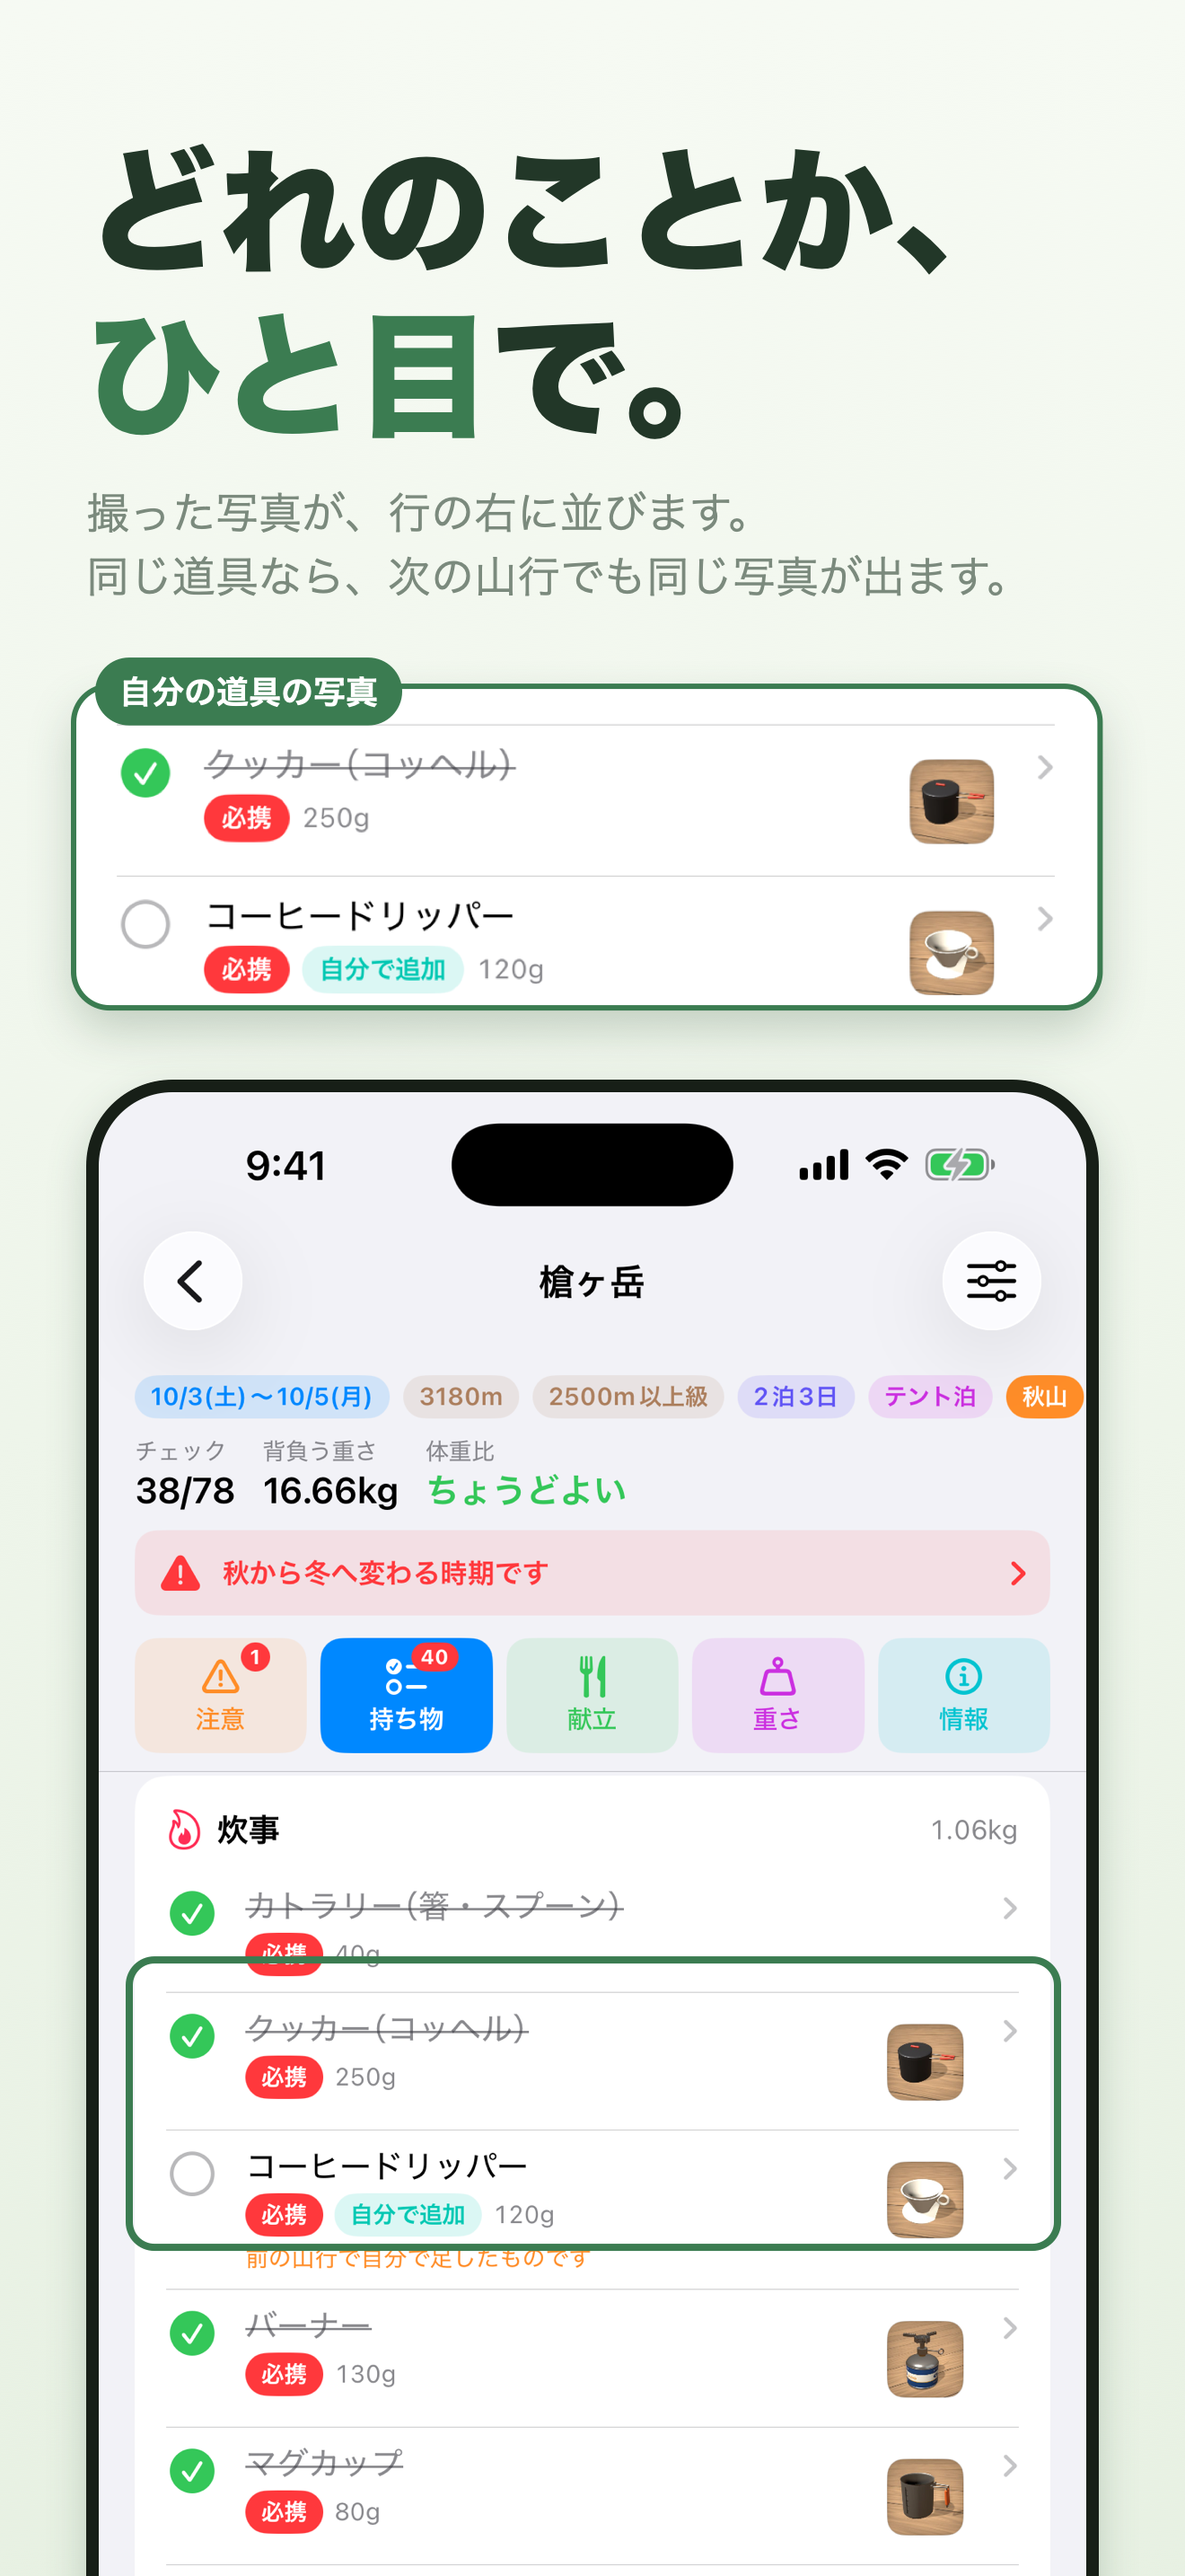
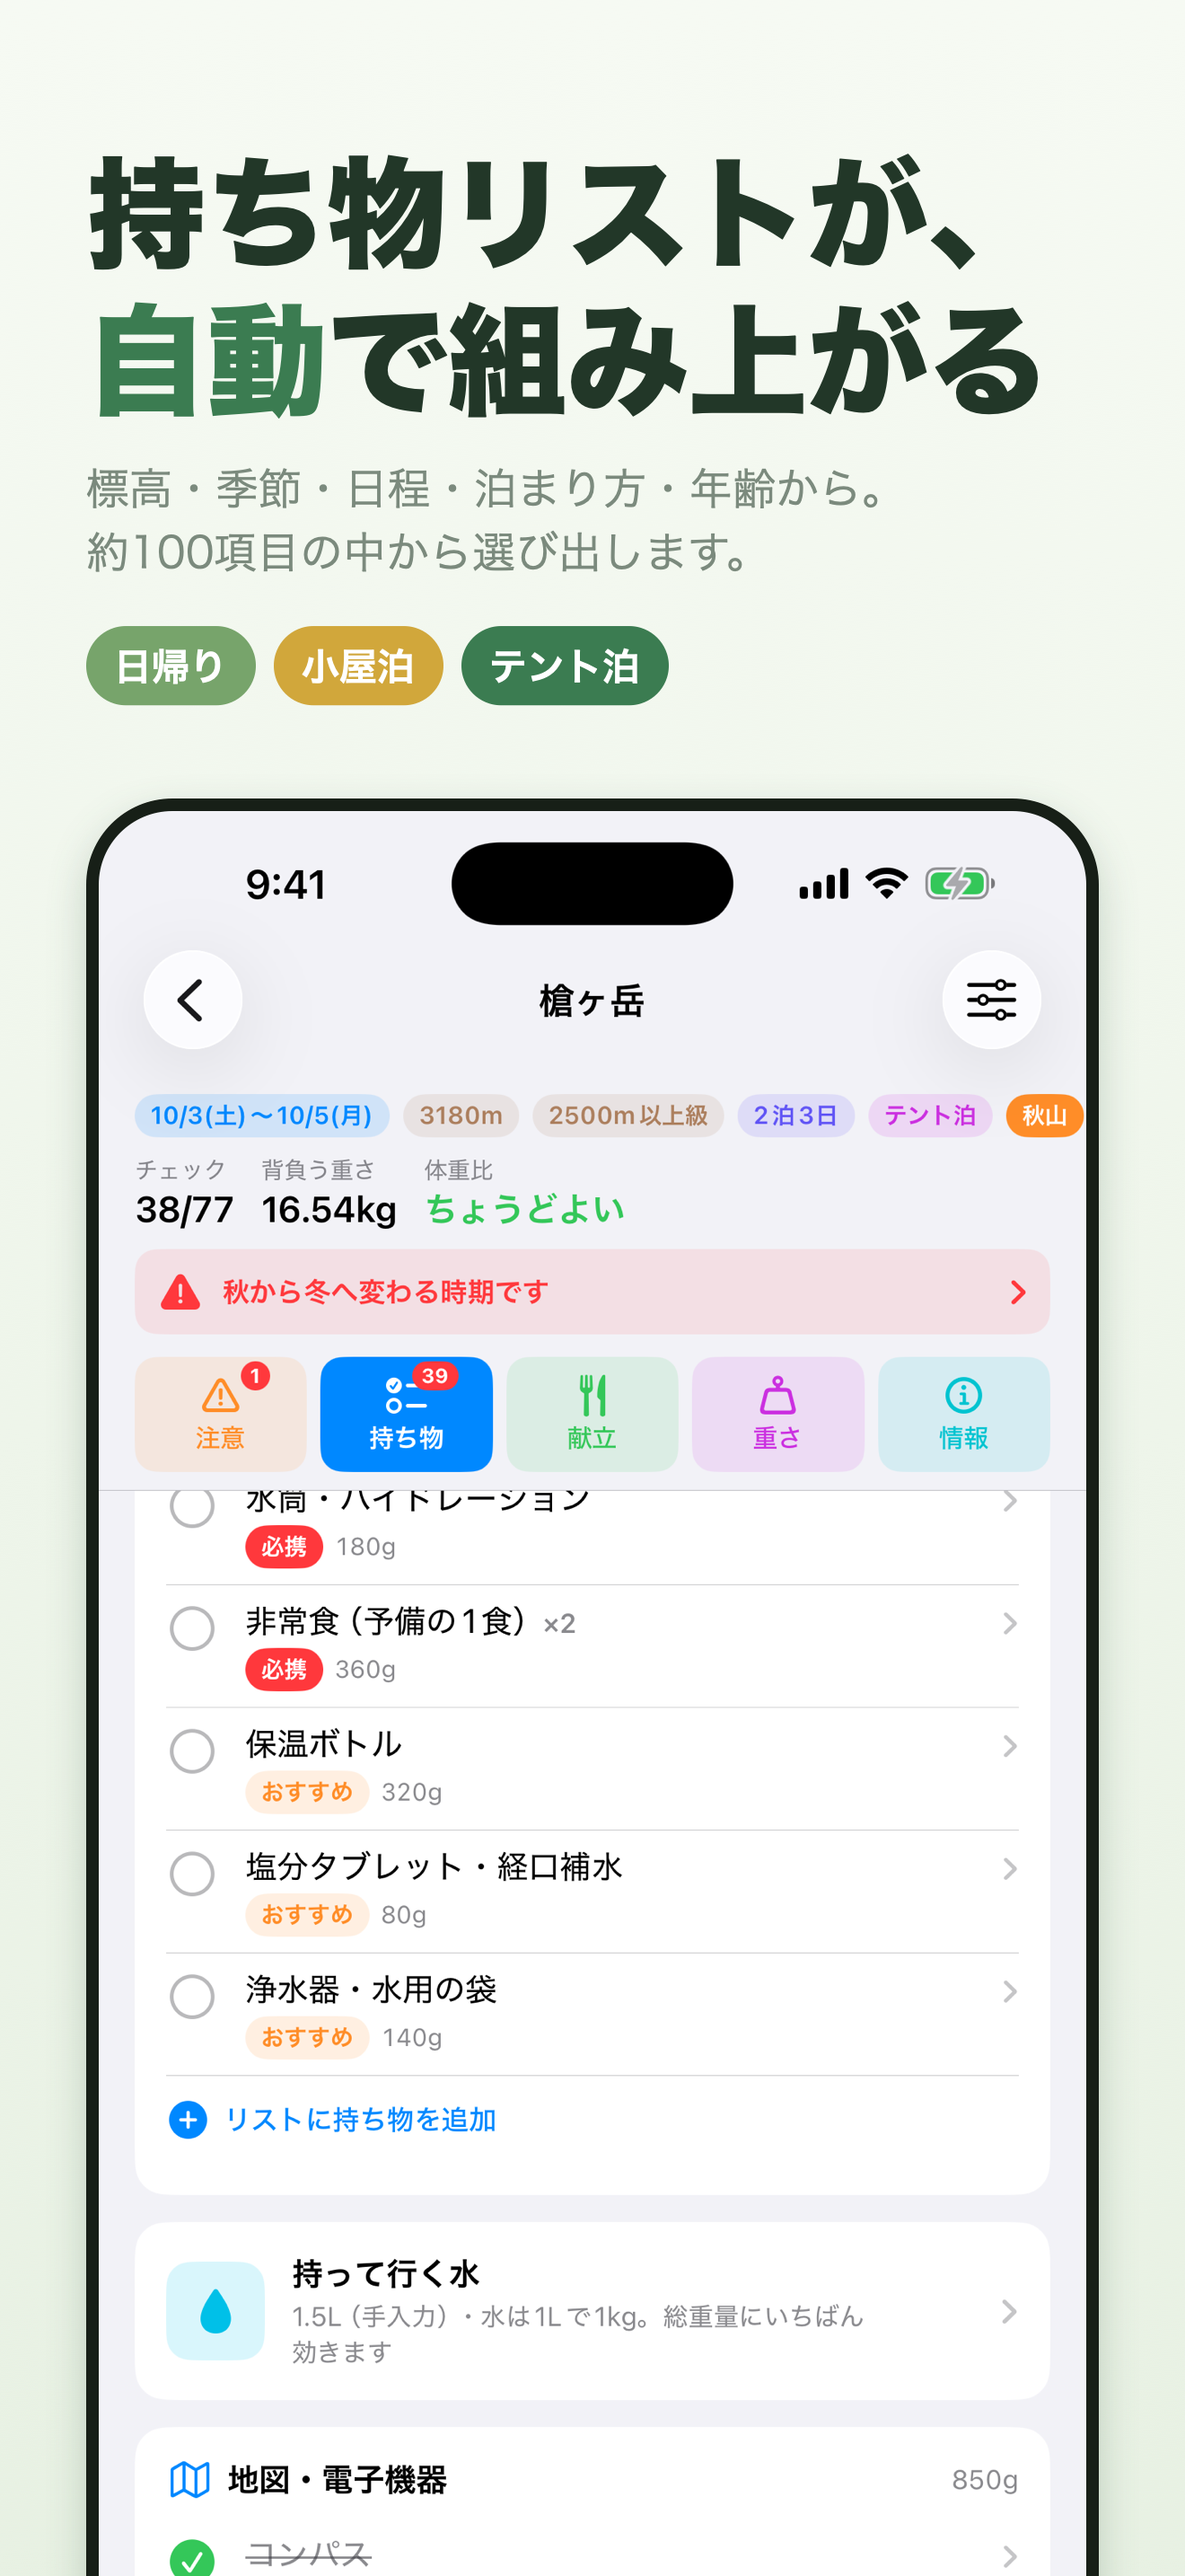
山じたく 1.12: 登山計画書・下山連絡・日の出・予報の見直し・分担・クマの備えを載せ、スクショを差し替える。プライバシーポリシーに計画書の個人情報と通知の節を足す

Changed region(s): [[0.0621, 0.0621, 0.9318, 1.0]]

diff --git a/yamajitaku/index.html b/yamajitaku/index.html
@@ -136,14 +136,14 @@
 <div class="shots">
   <a href="shots/01.png"><img src="thumbs/01.jpg" alt="忘れない。迷わない。軽くなる。" loading="lazy" width="322" height="700"></a>
   <a href="shots/02.png"><img src="thumbs/02.jpg" alt="自分の道具で、軽くなる" loading="lazy" width="322" height="700"></a>
-  <a href="shots/03.png"><img src="thumbs/03.jpg" alt="危ない時期は、理由まで" loading="lazy" width="322" height="700"></a>
-  <a href="shots/04.png"><img src="thumbs/04.jpg" alt="持ち物リストが、自動で組み上がる" loading="lazy" width="322" height="700"></a>
-  <a href="shots/05.png"><img src="thumbs/05.jpg" alt="どれのことか、ひと目で（持ち物の写真）" loading="lazy" width="322" height="700"></a>
-  <a href="shots/06.png"><img src="thumbs/06.jpg" alt="重すぎ、を出発前に知る" loading="lazy" width="322" height="700"></a>
-  <a href="shots/07.png"><img src="thumbs/07.jpg" alt="あなたの道具の重さで計算する" loading="lazy" width="322" height="700"></a>
-  <a href="shots/08.png"><img src="thumbs/08.jpg" alt="忘れ物は、出発前に消える" loading="lazy" width="322" height="700"></a>
-  <a href="shots/09.png"><img src="thumbs/09.jpg" alt="長押しで並べ替え、重ねてまとめる" loading="lazy" width="322" height="700"></a>
-  <a href="shots/10.png"><img src="thumbs/10.jpg" alt="7品・9食分。買い出しはこの表で" loading="lazy" width="322" height="700"></a>
+  <a href="shots/03.png"><img src="thumbs/03.jpg" alt="計画書まで、この山行から（登山計画書のPDF）" loading="lazy" width="322" height="700"></a>
+  <a href="shots/04.png"><img src="thumbs/04.jpg" alt="危ない時期は、理由まで" loading="lazy" width="322" height="700"></a>
+  <a href="shots/05.png"><img src="thumbs/05.jpg" alt="持ち物リストが、自動で組み上がる" loading="lazy" width="322" height="700"></a>
+  <a href="shots/06.png"><img src="thumbs/06.jpg" alt="雨の予報。ザックカバーは？（予報に合わせた見直し）" loading="lazy" width="322" height="700"></a>
+  <a href="shots/07.png"><img src="thumbs/07.jpg" alt="遅くとも8:28に歩き出す（日の出・日の入り）" loading="lazy" width="322" height="700"></a>
+  <a href="shots/08.png"><img src="thumbs/08.jpg" alt="出る前に約束し、下りたら知らせる（下山連絡とロック画面）" loading="lazy" width="322" height="700"></a>
+  <a href="shots/09.png"><img src="thumbs/09.jpg" alt="16.6kgが、15.0kgに（共同装備の分担）" loading="lazy" width="322" height="700"></a>
+  <a href="shots/10.png"><img src="thumbs/10.jpg" alt="どれのことか、ひと目で（持ち物の写真）" loading="lazy" width="322" height="700"></a>
 </div>
 
 <h3>iPad でも</h3>
@@ -173,14 +173,21 @@
 
 <h2>できること</h2>
 <ul>
-  <li>標高・季節・日程（日帰り〜9泊10日）・泊まり方・年齢層から、約100項目の中で持ち物を組み替え</li>
+  <li>標高・季節・日程（日帰り〜9泊10日）・泊まり方・年齢層から、約110項目の中で持ち物を組み替え</li>
   <li>必携／おすすめ／あると安心の3段階と、「なぜ入っているか」の一行説明</li>
   <li>着替えの枚数を「着替えない」「下着1セットのみ」「毎日着替える」から一括設定</li>
   <li>背負う重さの見積もりと体重比の判定（テント泊は別基準）</li>
   <li>4泊5日以上は「全部担ぐ計画になっている」ことを知らせ、小屋の食事や売店で減らせる分を案内</li>
   <li>テント泊の献立づくり。食料を重ねると重さとカロリーを合計</li>
-  <li>登山計画書・保険・下山連絡の提出チェックと、出発前日の通知</li>
-  <li>山頂の標高に合わせて補正した天気予報</li>
+  <li>登山計画書を PDF で作成。山名・日程・行程・持ち物は山行から入り、メンバーと緊急連絡先を足すだけ</li>
+  <li>下山連絡の相手と期限を決め、留守を預かる人に送る文を用意。期限の1時間前に通知</li>
+  <li>日ごとの日の出・日の入りと、明るいうちに歩き終えるための歩き出しの目安。GPX から行動時間も見積もり</li>
+  <li>山行の日は「日の入りまで」をロック画面（Android は通知）に表示</li>
+  <li>山頂の標高に合わせて補正した天気予報と、予報に合わせた持ち物の見直し（雨・雪・冷え込み・風）</li>
+  <li>共同装備を同行者と分担して、自分のザックの重さを計算</li>
+  <li>北海道・東北では熊撃退スプレーとクマの注意</li>
+  <li>出発前チェックと、出発前日の通知</li>
+  <li>持ち物リストを印刷用の PDF で</li>
   <li>登山口を Google マップで開く／テキスト・GPX で書き出し</li>
   <li>iCloud 同期とバックアップの書き出し・読み込み</li>
 </ul>
@@ -215,6 +222,12 @@
 外部から計画を直接送り込む窓口は公開されていないため、直接の連携はありません。
 かわりに、計画と持ち物を<strong>テキスト</strong>で書き出せます。YAMAP の活動日記、ヤマレコの山行記録・計画、
 コンパスの備考欄にそのまま貼れます。<strong>GPX</strong>（山の位置を地点として）も書き出せます。
+</p>
+
+<h3>登山計画書はどこに出せますか？</h3>
+<p>
+作った計画書は PDF と文章で取り出せます。オンラインの「コンパス」の入力欄に文章を貼る、県警にメールで送る、印刷して登山口のポストに入れる、など提出先の受け付け方に合わせて使えます。家族や職場にも同じものを渡しておくと安心です。
+入力した氏名や連絡先は端末（とご自身の iCloud）にだけ保存され、開発者には送られません。
 </p>
 
 <h3>iPad でも使えますか？</h3>

diff --git a/yamajitaku/privacy.html b/yamajitaku/privacy.html
@@ -124,7 +124,7 @@
 <p class="note"><a href="./">← 山じたく</a>／<a href="../">アプリ一覧</a></p>
 
 <h1>プライバシーポリシー</h1>
-<p class="tagline">山じたく（iOS / Android）／最終更新 2026年9月1日</p>
+<p class="tagline">山じたく（iOS / Android）／最終更新 2026年9月29日</p>
 
 <div class="card">
 <strong>要点</strong><br>
@@ -189,10 +189,19 @@ Open-Meteo のプライバシーに関する記載は
 写真を「選ぶ」ほうは端末の写真選択ツールを使うため、写真ライブラリへの許可は必要ありません。
 </p>
 
+<h2>3-3. 登山計画書に入れる個人情報</h2>
+<p>
+登山計画書を作る機能では、ご自身と同行者の氏名・年齢・住所・電話番号・緊急連絡先・血液型・山岳保険などを入力できます。
+これらは<strong>ほかの山行のデータと同じく端末の中</strong>（iOS版で iCloud 同期を入にしている場合は、ご自身の iCloud にも）に保存され、
+開発者や第三者に送信されることはありません。
+作った計画書（PDF・文章）は、利用者が共有の操作をしたときにだけ、利用者が選んだ宛先（メール・メッセージ・印刷など）へ渡されます。
+同行者の情報を入れる場合は、ご本人の了解を得てから入力してください。
+</p>
+
 <h2>4. 通知</h2>
 <p>
-出発前日のお知らせを有効にした場合、通知はすべて端末内で予約・表示されます。
-外部のサーバーを経由しません。通知は端末の設定からいつでも切ることができます。
+出発前日のお知らせ、下山連絡の期限の1時間前のお知らせ、山行の日の「日の入りまで」の表示（iOS版はロック画面のライブアクティビティ、Android版は通知）は、
+すべて端末内で予約・表示されます。外部のサーバーを経由しません。通知は端末の設定からいつでも切ることができます。
 </p>
 
 <h2>5. データの保存と削除</h2>
